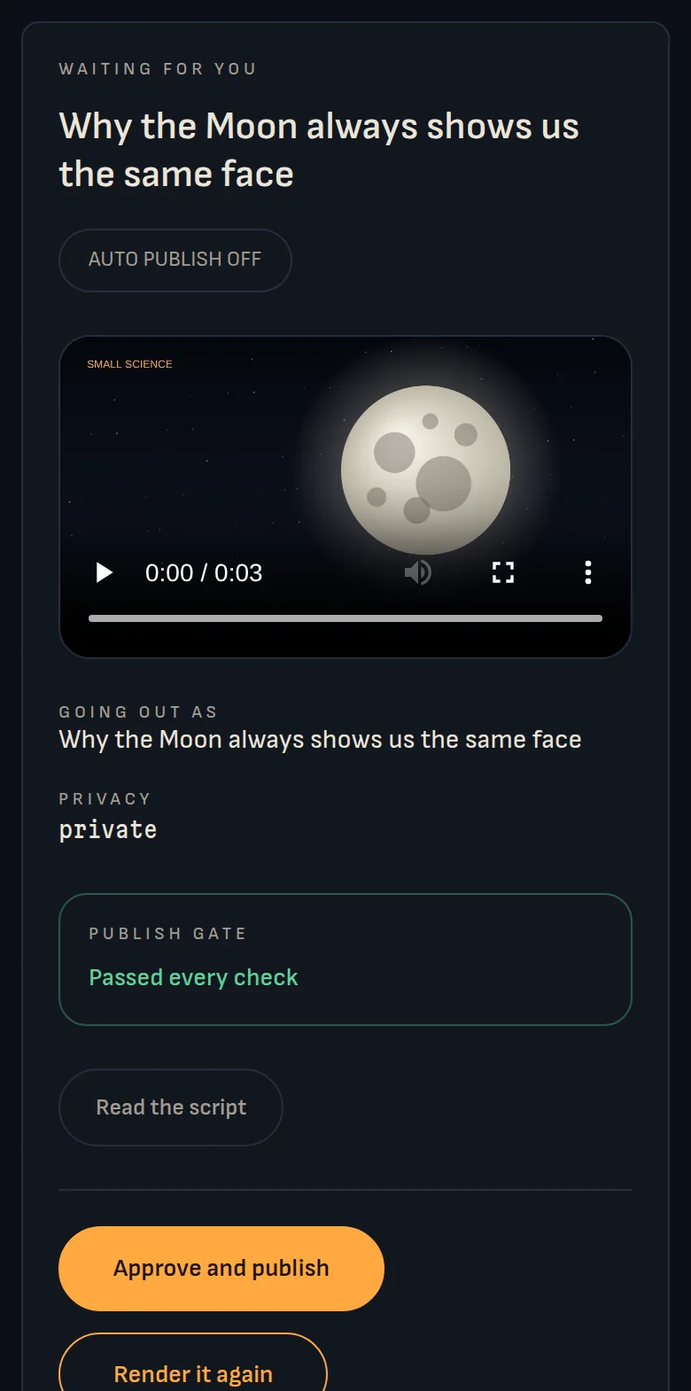
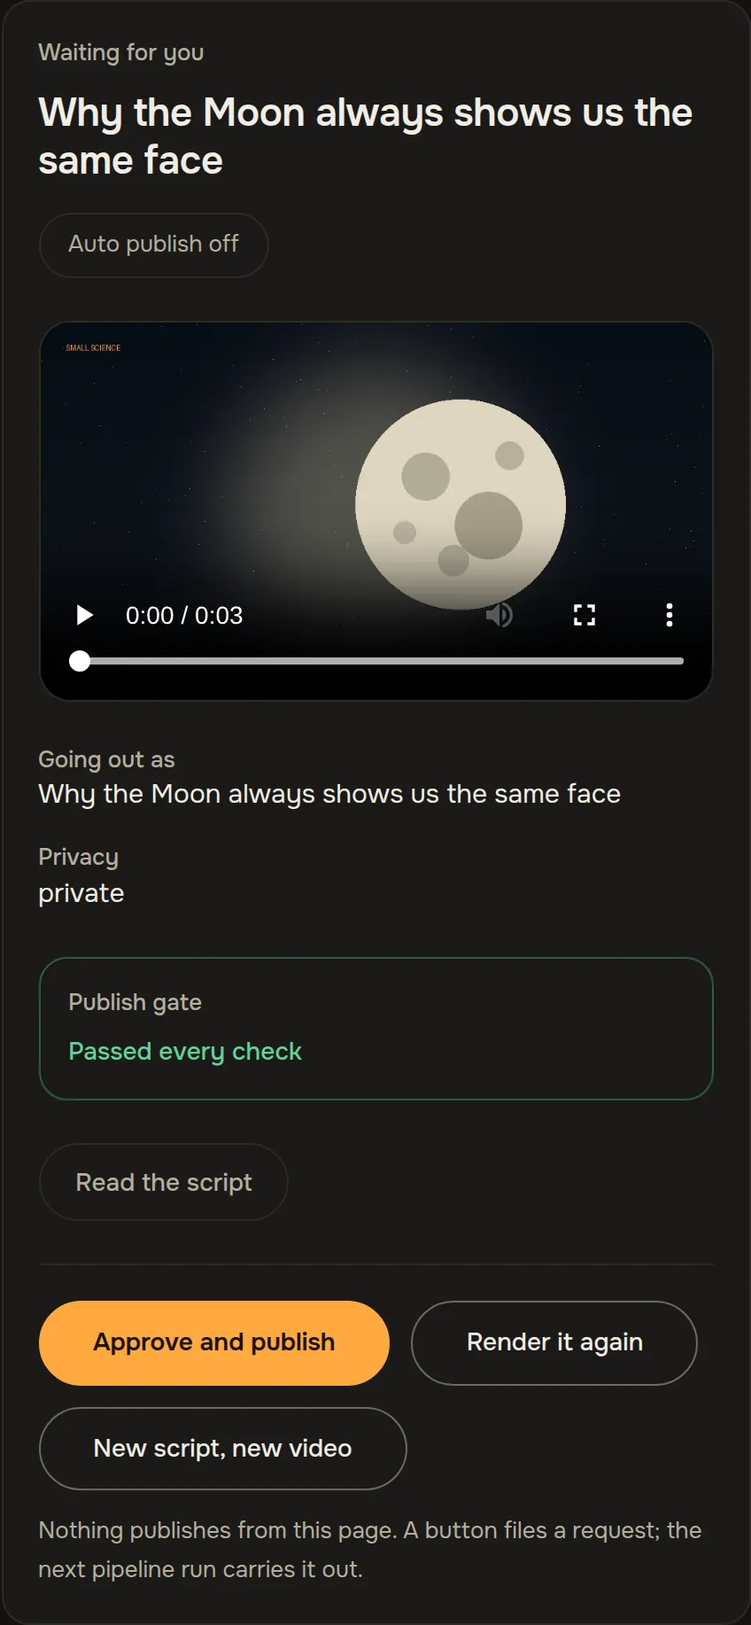
Review fixes: one-time welcome credits in the hero, auto-publish sentence in the FAQ, example label by the drawn key, approval screen recaptured from the current app, button not key, formulas in the page's face, shorter Uzbek pill, accurate sign-up line
Claude-Session: https://claude.ai/code/session_01U9oHiSfJHWxDDyJSd8fLSk

diff --git a/command-center/lib/i18n/site/en.ts b/command-center/lib/i18n/site/en.ts
@@ -25,7 +25,7 @@ export const siteEn = {
     lead: "Give Nightshift a topic. It writes, voices and edits a YouTube video, then waits for your OK. You see the price before anything starts.",
     cta: "Start free",
     secondary: "See pricing",
-    note: "{n} free credits when you sign up. No card.",
+    note: "{n} free credits, once, when you sign up. No card.",
   },
   rundown: {
     figure: "Illustration of one video’s rundown in Nightshift: channel, topic, script and video are done; the video is uploaded to YouTube as private and waits for your approval.",
@@ -169,7 +169,7 @@ export const siteEn = {
     shotTitle: "The app’s real approval screen.",
     shotBody: "A finished video waits on its own page: the preview, the title it goes out under, private on YouTube, the publish check's verdict, and the keys. With auto-publish off, nothing goes public until someone presses Approve.",
     shotCaption: "A real screen from the app. Everything on it is sample data: the channel, the video, the balance and the account.",
-    shotAlt: "Screenshot of the Command Center: the video “Why the Moon always shows us the same face” waiting for approval — private, auto-publish off, the publish gate passed every check — with the Approve and publish key. Everything shown is sample data.",
+    shotAlt: "Screenshot of the Command Center: the video “Why the Moon always shows us the same face” waiting for approval — private, auto-publish off, the publish gate passed every check — with the Approve and publish button. Everything shown is sample data.",
     steps: [
       { id: "channel", title: "Channel", body: "Connect your YouTube channel through Google’s own consent screen. It runs only once YouTube confirms the channel is yours." },
       { id: "topic", title: "Topic", body: "Type a topic, a question or a short brief — or let the channel pick its next one from its niche." },
@@ -231,7 +231,7 @@ export const siteEn = {
     title: "Pay for what you make. Never for a failure.",
     lead: "Nightshift runs on credits. A plan brings a monthly allowance; one-time packs top up with or without a plan.",
     ledger: [
-      { id: "quote", word: "Quote", body: "Shown on the key before anything starts" },
+      { id: "quote", word: "Quote", body: "Shown on the button before anything starts" },
       { id: "hold", word: "Hold", body: "Set aside when the run starts" },
       { id: "charge", word: "Charge", body: "What it used, never more than the hold" },
       { id: "return", word: "Return", body: "The rest — or all of it, if the run failed" },
@@ -280,10 +280,10 @@ export const siteEn = {
     eyebrowNoPlans: "Credits and top-ups",
     mathSlug: "Credits math",
     mathTitle: "How a price becomes a charge.",
-    mathLead: "The same four steps for a video run and a Studio generation. The price of each is on the key you press, before anything starts.",
+    mathLead: "The same four steps for a video run and a Studio generation. The price of each is on the button you press, before anything starts.",
     leadNoPlans: "Top up with one-time credit packs. Every generation shows its price before it starts, and a failed one costs nothing.",
     rows: [
-      { id: "quote", word: "Quote", formula: "quote = length × per-minute rate, at least the minimum per run", body: "Shown on the key before anything starts. A Studio generation carries its own price the same way." },
+      { id: "quote", word: "Quote", formula: "quote = length × per-minute rate, at least the minimum per run", body: "Shown on the button before anything starts. A Studio generation carries its own price the same way." },
       { id: "hold", word: "Hold", formula: "hold = quote", body: "Set aside from your balance when the run starts, so it is not spent on anything else meanwhile." },
       { id: "charge", word: "Charge", formula: "charge ≤ hold", body: "What the run actually used, once it finishes — never more than the hold." },
       { id: "return", word: "Return", formula: "return = hold − charge;  failed → return = hold", body: "Comes straight back to your balance, with no request. Every step is in your credit history." },
@@ -352,7 +352,7 @@ export const siteEn = {
         air: "It goes public only when both are in.",
       },
       composer: {
-        figure: "Illustration of the Studio composer: a description, the 16:9 shape selected, one of your style kits, and the Generate key that carries its price.",
+        figure: "Illustration of the Studio composer: a description, the 16:9 shape selected, one of your style kits, and the Generate button that carries its price.",
         title: "Studio",
         tag: "Illustration",
         describe: "Describe it",
@@ -361,7 +361,7 @@ export const siteEn = {
         style: "Style",
         styleName: "Night market",
         generate: "Generate",
-        price: "price on the key",
+        price: "price on the button",
       },
       api: {
         figure: "The public API's endpoints, as listed in the API reference.",
@@ -401,7 +401,7 @@ export const siteEn = {
         id: "creative-studio",
         nav: "Creative studio",
         kicker: "For single pieces",
-        title: "Pictures, clips and voice‑overs, priced on the key.",
+        title: "Pictures, clips and voice‑overs, priced on the button.",
         lead: "For creators and editors who need a thumbnail idea, a b-roll clip or a narration line, without starting a whole video.",
         what: [
           { title: "Images", body: "From a description, in 16:9, 9:16 or square — then edit them by typing, upscale them or cut them out." },
@@ -413,9 +413,9 @@ export const siteEn = {
         not: [
           "It will not start a generation you have not pressed — and the press shows the price.",
           "It will not keep the credits of a generation that failed; they return on their own.",
-          "It will not add a charge for a style kit — the price on the key is the whole price.",
+          "It will not add a charge for a style kit — the price on the button is the whole price.",
         ],
-        start: ["Create a free account", "Open the Studio and pick a tool", "Describe what you want and press the priced key"],
+        start: ["Create a free account", "Open the Studio and pick a tool", "Describe what you want and press the priced button"],
       },
       {
         id: "developers",

diff --git a/command-center/tests/public-pages.test.tsx b/command-center/tests/public-pages.test.tsx
@@ -138,6 +138,9 @@ describe("public landing page", () => {
     expect(tabs.map((x) => x.textContent?.replace(/^\d/, ""))).toEqual(t.site.stage.steps.map((x) => x.tab));
     // The story ends where the page's idea does: you approve, then it is live.
     expect(t.site.stage.steps.map((x) => x.id)).toEqual(["brief", "plan", "approve", "live"]);
+    // The drawn "Approve and publish" key says next to itself that it is an example.
+    const approveFoot = container.querySelector('[role="tabpanel"]:nth-of-type(3) .nx-ui-foot, [role="tabpanel"]:nth-child(3) .nx-ui-foot')!;
+    expect(approveFoot.querySelector(".nx-ui-note")?.textContent).toBe(t.site.stage.tag);
     // Only the open state is exposed; the rest stay in the HTML (search) but out of the way.
     const panels = [...container.querySelectorAll('[role="tabpanel"]')];
     expect(panels.map((p) => p.getAttribute("data-on"))).toEqual(["true", "false", "false", "false"]);
@@ -154,9 +157,38 @@ describe("public landing page", () => {
     expect(on.textContent).toContain(t.site.stage.steps[2].title);
   });
 
-  it("names the welcome grant from WELCOME_CREDITS, once on sign-up", () => {
+  it("names the welcome grant from WELCOME_CREDITS, and says it is one-time in every language", () => {
     renderLanding({ kind: "announced" });
     expect(screen.getByText(fmt(dictionaries.en.site.hero.note, { n: WELCOME_CREDITS }))).toBeTruthy();
+    // The grant is given once (grant_welcome_credits), so the hero must say so, not just "when you sign up".
+    expect(dictionaries.en.site.hero.note).toMatch(/once/i);
+    expect(dictionaries.ru.site.hero.note).toMatch(/один раз/);
+    expect(dictionaries.uz.site.hero.note).toMatch(/bir marta/);
+  });
+
+  it("does not let \"You press publish\" stand alone: the FAQ says auto-publish is off unless turned on for a channel", () => {
+    for (const locale of ["en", "ru", "uz"] as const) {
+      const control = dictionaries[locale].landing.faq.items.find((i) => i.id === "control")!;
+      expect(control.a).toMatch(locale === "en" ? /Auto-publish is off unless you turn it on for a channel/ : locale === "ru" ? /Автопубликация выключена, пока вы не включите её для канала/ : /Avto-nashr kanal uchun siz yoqmaguningizcha oʻchiq/);
+    }
+  });
+
+  it("writes the price as a button, not a key, in the site's English copy (API keys are keys)", () => {
+    const strings: string[] = [];
+    const walk = (n: unknown) => (typeof n === "string" ? strings.push(n) : Array.isArray(n) ? n.forEach(walk) : n && typeof n === "object" ? Object.values(n).forEach(walk) : null);
+    walk(dictionaries.en.site);
+    for (const s of strings) expect(s).not.toMatch(/\b(?:on the key|the key you press|Generate key|priced key|Approve and publish key)\b/i);
+  });
+
+  it("keeps the hero pill to one line in Uzbek (short enough for 390px)", () => {
+    expect(dictionaries.uz.site.hero.kicker.length).toBeLessThanOrEqual(40);
+  });
+
+  it("tells the truth about sign-up: the email is confirmed by a link, and no card is asked for", () => {
+    expect(dictionaries.en.signup.sub).toMatch(/confirm/);
+    expect(dictionaries.ru.signup.sub).toMatch(/подтвержд/);
+    expect(dictionaries.uz.signup.sub).toMatch(/tasdiqlash/);
+    for (const l of ["en", "ru", "uz"] as const) expect(dictionaries[l].signup.sub.length).toBeGreaterThan(20);
   });
 
   it("opens the cancelling and refund answers before anyone buys, when a plan is on sale", () => {

diff --git a/command-center/lib/i18n/ru.ts b/command-center/lib/i18n/ru.ts
@@ -218,7 +218,7 @@ export const ru: Dictionary = {
   },
   signup: {
     title: "Создайте аккаунт",
-    sub: "Только почта и пароль. Карта не нужна.",
+    sub: "Почта и пароль, затем мы пришлём ссылку для подтверждения. Карта не нужна.",
     email: "Эл. почта",
     password: "Пароль",
     confirm: "Повторите пароль",
@@ -3493,7 +3493,7 @@ export const ru: Dictionary = {
         { id: "refund", q: "Можно ли вернуть деньги?", a: "Платежами занимается Paddle: запросы на возврат он рассматривает по своим условиям для покупателей и применимому законодательству. При возврате покупки зачисленные ею кредиты снимаются в той мере, в какой они ещё не израсходованы. Кредиты, зарезервированные для неудачного запуска, всегда возвращаются сами." },
         { id: "unused", q: "Что будет с неиспользованными кредитами?", a: "Кредиты тарифа действуют в течение расчётного периода, в котором пришли, и не переносятся. Кредиты пополнения расходуются после кредитов тарифа и сгорают в срок, указанный на странице цен." },
         { id: "card", q: "Нужна ли карта для регистрации?", a: "Нет. Аккаунт создаётся по email, и приветственные кредиты начисляются один раз. Платите вы только когда выбираете тариф или пакет кредитов." },
-        { id: "control", q: "Может ли он опубликовать что-то без меня?", a: "Загрузки приватны по умолчанию, и каждое видео сначала проходит проверку публикации. Автопубликация — переключатель канала, выключенный, пока вы его не включите." },
+        { id: "control", q: "Может ли он опубликовать что-то без меня?", a: "Только если вы разрешите. Загрузки приватны по умолчанию, и каждое видео сначала проходит проверку публикации. Автопубликация выключена, пока вы не включите её для канала; до этого публикация — ваша кнопка." },
         { id: "data", q: "Что вы делаете с моими данными?", a: "Данные Google используются только для загрузки на подключённый канал и чтобы показывать вам его аналитику — никогда для рекламы. Токены доступа зашифрованы и не попадают в браузер, а доступ можно отозвать в любой момент." },
       ],
       privacyLink: "Политика конфиденциальности",

diff --git a/command-center/lib/i18n/uz.ts b/command-center/lib/i18n/uz.ts
@@ -218,7 +218,7 @@ export const uz: Dictionary = {
   },
   signup: {
     title: "Hisob yarating",
-    sub: "Faqat email va parol. Karta kerak emas.",
+    sub: "Email va parol, soʻng tasdiqlash havolasini yuboramiz. Karta kerak emas.",
     email: "Email",
     password: "Parol",
     confirm: "Parolni takrorlang",
@@ -3493,7 +3493,7 @@ export const uz: Dictionary = {
         { id: "refund", q: "Pulni qaytarib olsa boʻladimi?", a: "Toʻlovlar bilan Paddle shugʻullanadi: qaytarish soʻrovlarini u oʻzining xaridorlar shartlari va amaldagi qonunchilik asosida koʻrib chiqadi. Xarid qaytarilsa, u qoʻshgan kreditlar hali sarflanmagan qismida olib qoʻyiladi. Muvaffaqiyatsiz ish uchun band qilingan kreditlar esa doim oʻzi qaytadi." },
         { id: "unused", q: "Ishlatilmagan kreditlar nima boʻladi?", a: "Tarif kreditlari kelgan hisob-kitob davri davomida amal qiladi va keyingisiga oʻtmaydi. Toʻldirish kreditlari tarif kreditlaridan keyin sarflanadi va Narxlar sahifasida koʻrsatilgan muddatda tugaydi." },
         { id: "card", q: "Roʻyxatdan oʻtish uchun karta kerakmi?", a: "Yoʻq. Akkaunt email orqali ochiladi va xush kelibsiz kreditlari bir marta beriladi. Faqat tarif yoki kredit paketini tanlaganingizda toʻlaysiz." },
-        { id: "control", q: "U mensiz biror narsani nashr qila oladimi?", a: "Yuklamalar sukut boʻyicha yopiq va har bir video avval nashr tekshiruvidan oʻtadi. Avto-nashr — kanal sozlamasi, siz yoqmaguningizcha oʻchiq turadi." },
+        { id: "control", q: "U mensiz biror narsani nashr qila oladimi?", a: "Faqat siz ruxsat bersangiz. Yuklamalar sukut boʻyicha yopiq va har bir video avval nashr tekshiruvidan oʻtadi. Avto-nashr kanal uchun siz yoqmaguningizcha oʻchiq; shu paytgacha ommaviy qilish — sizning tugmangiz." },
         { id: "data", q: "Maʼlumotlarim bilan nima qilasiz?", a: "Google maʼlumotlaringiz faqat siz ulagan kanalga yuklash va oʻsha kanal analitikasini sizga koʻrsatish uchun ishlatiladi — hech qachon reklama uchun emas. Kirish tokenlari shifrlangan va brauzerga chiqmaydi, ruxsatni istalgan vaqtda bekor qilishingiz mumkin." },
       ],
       privacyLink: "Maxfiylik siyosatini oʻqish",

diff --git a/command-center/lib/i18n/en.ts b/command-center/lib/i18n/en.ts
@@ -226,7 +226,7 @@ export const en = {
   },
   signup: {
     title: "Create your account",
-    sub: "Just your email and a password. No card needed.",
+    sub: "Your email and a password, then we send a link to confirm it. No card needed.",
     email: "Email",
     password: "Password",
     confirm: "Confirm password",
@@ -3502,7 +3502,7 @@ export const en = {
         { id: "refund", q: "Can I get a refund?", a: "Payments are handled by Paddle, which processes refund requests under its Buyer Terms and applicable law. When a purchase is refunded, the credits it added are removed as far as they are still unused. Credits held for a failed run always come back on their own." },
         { id: "unused", q: "What happens to unused credits?", a: "Plan credits are valid for the billing period they arrive in and do not roll over. Top-up credits are spent after plan credits and follow the expiry shown on the Pricing page." },
         { id: "card", q: "Do I need a card to sign up?", a: "No. You create an account with your email and get the welcome credits once. You pay only when you choose a plan or a credit pack." },
-        { id: "control", q: "Can it publish something without me?", a: "Uploads are private by default and every video passes a publish check first. Auto-publish is a per-channel switch that stays off until you turn it on." },
+        { id: "control", q: "Can it publish something without me?", a: "Only if you let it. Uploads are private by default and every video passes a publish check first. Auto-publish is off unless you turn it on for a channel; until then, going public is your button." },
         { id: "data", q: "What do you do with my data?", a: "Your Google data is used only to upload to the channel you connect and to show that channel's analytics to you — never for advertising. Access tokens are encrypted and never reach the browser, and you can revoke access at any time." },
       ],
       privacyLink: "Read the Privacy Policy",

diff --git a/command-center/components/landing/PressStage.tsx b/command-center/components/landing/PressStage.tsx
@@ -146,7 +146,7 @@ export function PressStage({ stage }: { stage: Stage }) {
               <span className="nx-ui-tag">{stage.tag}</span>
               {s.id === "brief" && <BriefUi s={s as BriefStep} />}
               {s.id === "plan" && <PlanUi s={s as PlanStep} />}
-              {s.id === "approve" && <ApproveUi s={s as ApproveStep} />}
+              {s.id === "approve" && <ApproveUi s={s as ApproveStep} tag={stage.tag} />}
               {s.id === "live" && <LiveUi s={s as LiveStep} />}
             </div>
           </div>
@@ -214,7 +214,7 @@ function Frame({ live = false }: { live?: boolean }) {
   );
 }
 
-function ApproveUi({ s }: { s: ApproveStep }) {
+function ApproveUi({ s, tag }: { s: ApproveStep; tag: string }) {
   return (
     <div className="nx-ui-card">
       <Frame />
@@ -233,6 +233,8 @@ function ApproveUi({ s }: { s: ApproveStep }) {
         </li>
       </ul>
       <div className="nx-ui-foot">
+        {/* The drawn key is a picture; saying so next to it keeps anyone from reaching for it. */}
+        <span className="nx-ui-note">{tag}</span>
         <span className="nx-ui-key" data-lit="true">
           {s.key}
         </span>

diff --git a/command-center/lib/i18n/site/ru.ts b/command-center/lib/i18n/site/ru.ts
@@ -18,7 +18,7 @@ export const siteRu: SiteDictionary = {
     lead: "Дайте Nightshift тему. Он напишет сценарий, озвучит и смонтирует видео для YouTube, а потом дождётся вашего «да». Цену вы увидите до старта.",
     cta: "Начать бесплатно",
     secondary: "Посмотреть цены",
-    note: "{n} бесплатных кредитов при регистрации. Без карты.",
+    note: "{n} бесплатных кредитов один раз, при регистрации. Без карты.",
   },
   rundown: {
     figure: "Иллюстрация: ход одного видео в Nightshift. Канал, тема, сценарий и видео готовы; видео загружено на YouTube как приватное и ждёт вашего одобрения.",

diff --git a/command-center/lib/i18n/site/uz.ts b/command-center/lib/i18n/site/uz.ts
@@ -12,13 +12,13 @@ export const siteUz: SiteDictionary = {
     start: "Bepul boshlash",
   },
   hero: {
-    kicker: "YouTube kanallari uchun — yuzli ham, yuzsiz ham",
+    kicker: "Yuzli va yuzsiz YouTube kanallari uchun",
     titleA: "Videoni biz tayyorlaymiz.",
     titleB: "Nashr qilishni siz bosasiz.",
     lead: "Nightshift’ga mavzu bering. U YouTube uchun video yozadi, ovozlaydi va montaj qiladi, soʻng roziligingizni kutadi. Narxni boshlashdan oldin koʻrasiz.",
     cta: "Bepul boshlash",
     secondary: "Narxlarni koʻrish",
-    note: "Roʻyxatdan oʻtsangiz, {n} bepul kredit beriladi. Karta kerak emas.",
+    note: "Roʻyxatdan oʻtishda bir marta {n} bepul kredit. Karta kerak emas.",
   },
   rundown: {
     figure: "Rasm: Nightshift’da bitta videoning yoʻli. Kanal, mavzu, ssenariy va video tayyor; video YouTube’ga shaxsiy holda yuklangan va tasdiqlashingizni kutmoqda.",

diff --git a/command-center/components/site/site-next.css b/command-center/components/site/site-next.css
@@ -573,6 +573,8 @@ html:is([lang="ru"], [lang="uz"]) .nx-h2 { font-size: clamp(28px, 4.4vw, 46px); 
 .nx-math[open] > summary { border-bottom: 1px solid var(--ns-rule); }
 .nx-math .st-formula { border-top: 1px solid var(--ns-rule); margin: 0 20px 12px; }
 .nx-math-steps { margin: 0 20px; }
+/* Words and equations, not code: the page's own face with aligned figures. */
+.nx .st-formula code { font-family: inherit; font-variation-settings: normal; font-variant-numeric: tabular-nums; font-size: 15px; }
 .nx-flow { margin-top: 32px; }
 .nx-get { display: grid; gap: 12px; margin: 0; padding: 0; list-style: none; }
 .nx-get li { display: flex; align-items: flex-start; gap: 14px; padding: 18px 20px; border-radius: 20px; border: 1px solid var(--ns-rule); background: var(--ns-console); font-size: 16px; line-height: 1.5; }

diff --git a/command-center/tests/site-next-css.test.ts b/command-center/tests/site-next-css.test.ts
@@ -85,6 +85,14 @@ describe("site-next.css", () => {
     expect(css).toMatch(/\.nx \.st-field input \{ height: 54px; min-height: 54px;/);
   });
 
+  it("sets the credit-math equations in the page's own face with aligned figures, not in a monospace", () => {
+    const at = css.indexOf(".nx .st-formula code {");
+    expect(at).toBeGreaterThan(-1);
+    const body = css.slice(at, css.indexOf("}", at));
+    expect(body).toContain("font-family: inherit");
+    expect(body).toContain("tabular-nums");
+  });
+
   it("draws nothing as pressable that is not: the drawn keys are spans inside an aria-hidden picture", () => {
     const stage = readFileSync(join(__dirname, "..", "components/landing/PressStage.tsx"), "utf8");
     expect(stage).toMatch(/className="nx-ui" aria-hidden/);

diff --git a/docs/design/SITE_KREA.md b/docs/design/SITE_KREA.md
@@ -220,3 +220,19 @@ Risks:
    changed with the headline, their layouts did not.
 6. Sections alternate tones with a data attribute and CSS; a new section that forgets `data-tone` will sit on the
    ground colour next to another ground section.
+
+## 7. Fixes after review (Lens and Pixel)
+
+- Hero note says the welcome credits are one-time again (en, ru, uz), matching `grant_welcome_credits`.
+- "You press publish." no longer stands alone: the FAQ answer says auto-publish is off unless you turn it on for
+  a channel; the drawn "Approve and publish" key carries a small "Example" label next to it.
+- The approval screen on the landing is recaptured from the current app (main with the calm-app change),
+  light and dark, en/ru/uz, desktop and phone, from the repo's visual-QA fake backend extended in a scratch copy
+  with one sample video (a drawn moon clip, "Small Science", private, publish gate passed). The panel is now
+  sentence case with no monospace. The caption still says everything on it is sample data.
+- "key" became "button" in the English site copy where it meant the priced button (Russian and Uzbek already said
+  button); API keys stay keys. The credit-math equations are set in the page's face with aligned figures.
+- The Uzbek hero pill is short enough to stay on one line at 340px and up; the sign-up line says a link confirms
+  the email and no card is needed (what the flow does: `signUp`, then `/auth/callback`, then `/welcome`).
+- Left for a separate PR: the hydration mismatch on `/pricing` in Uzbek (Intl currency output differs between
+  server and browser in `lib/pricing.ts`).
